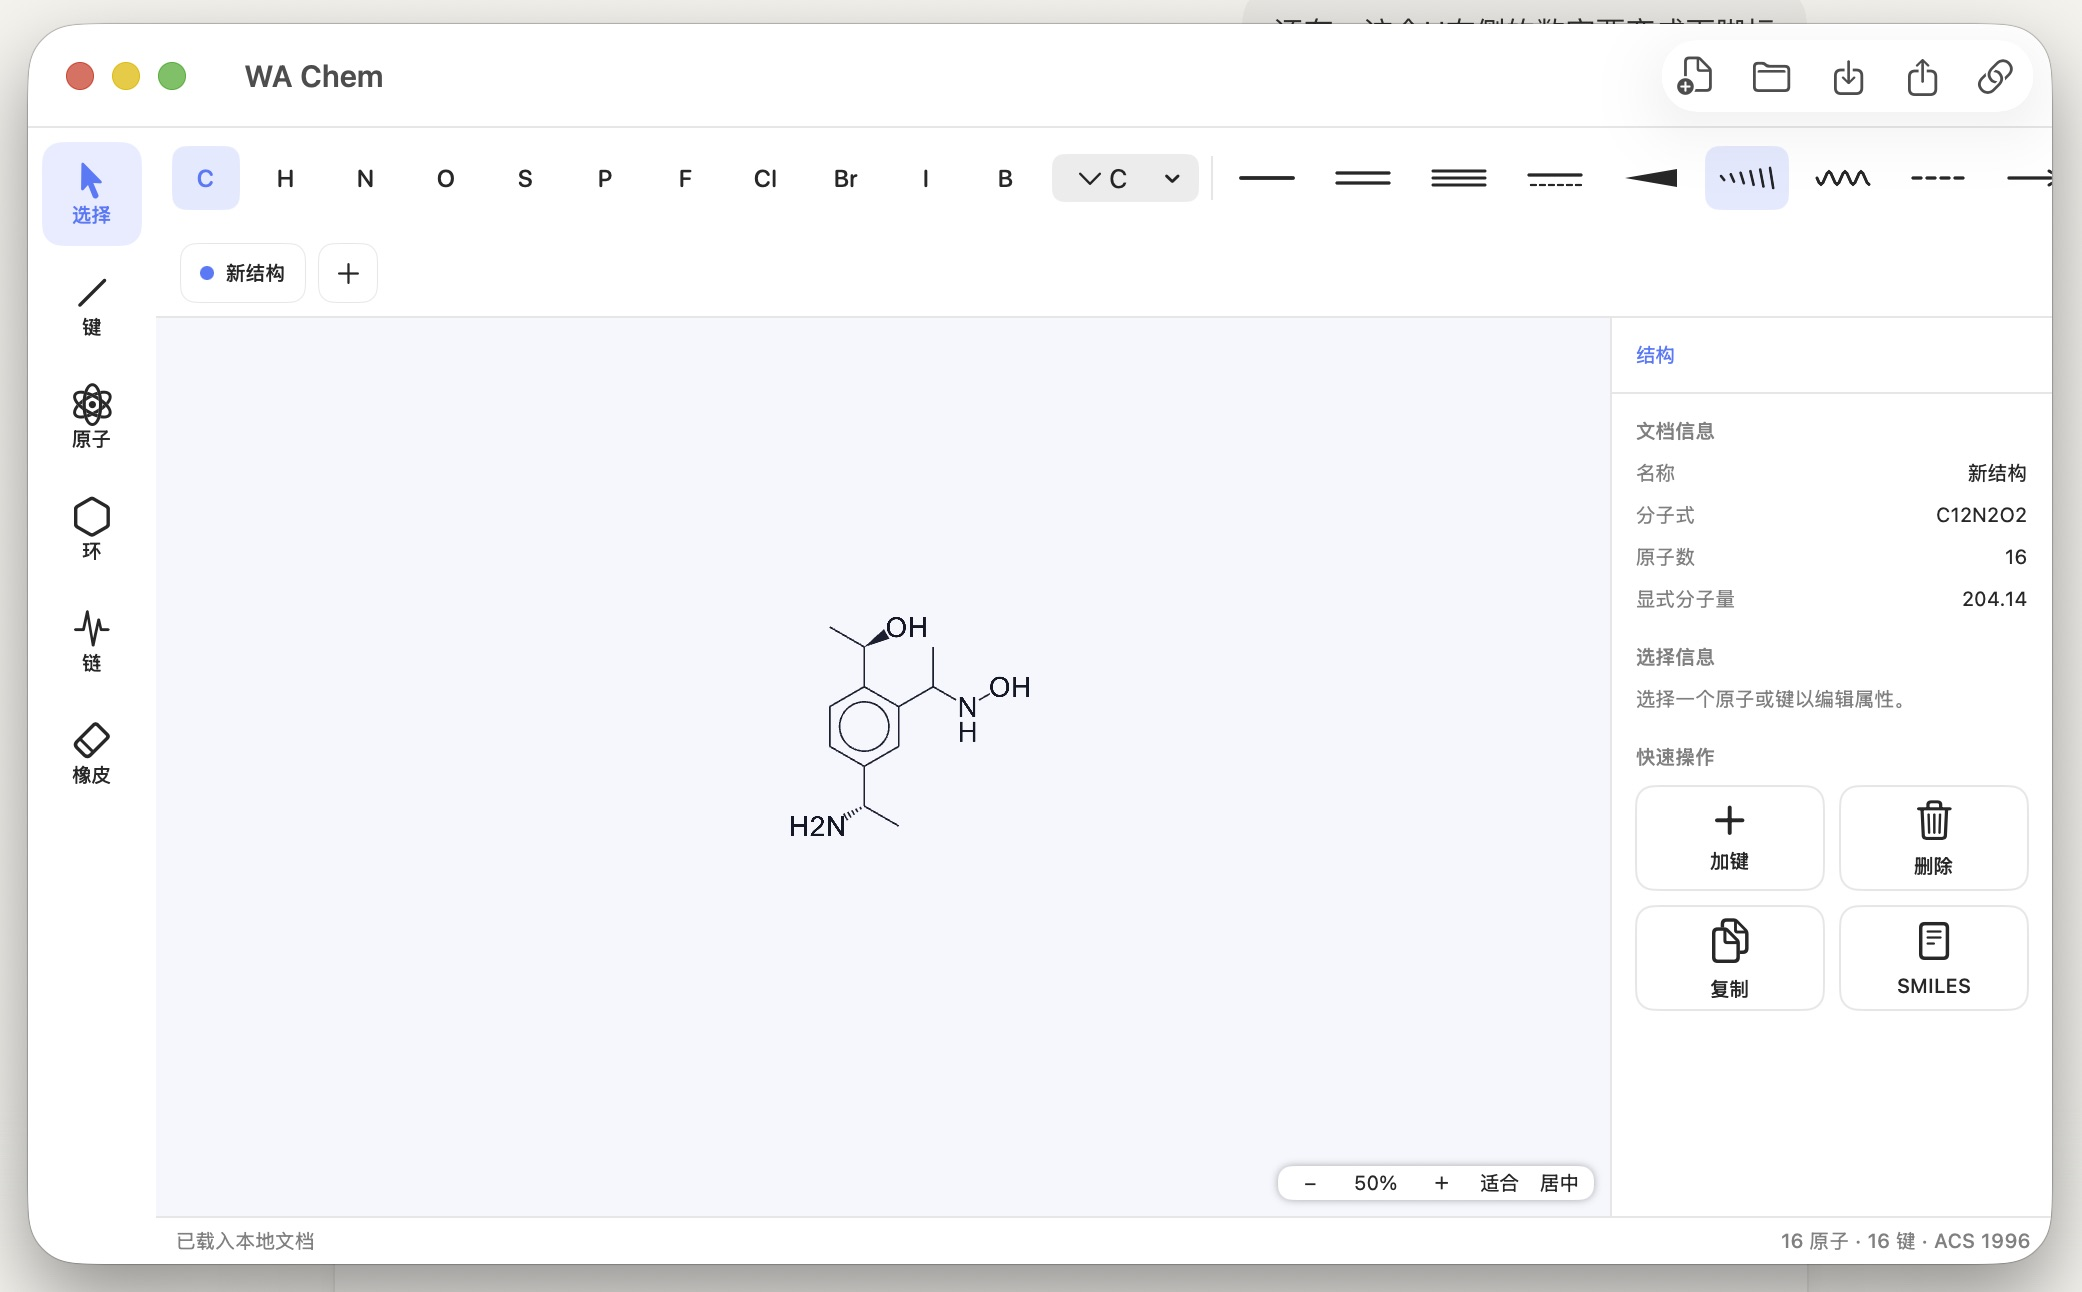
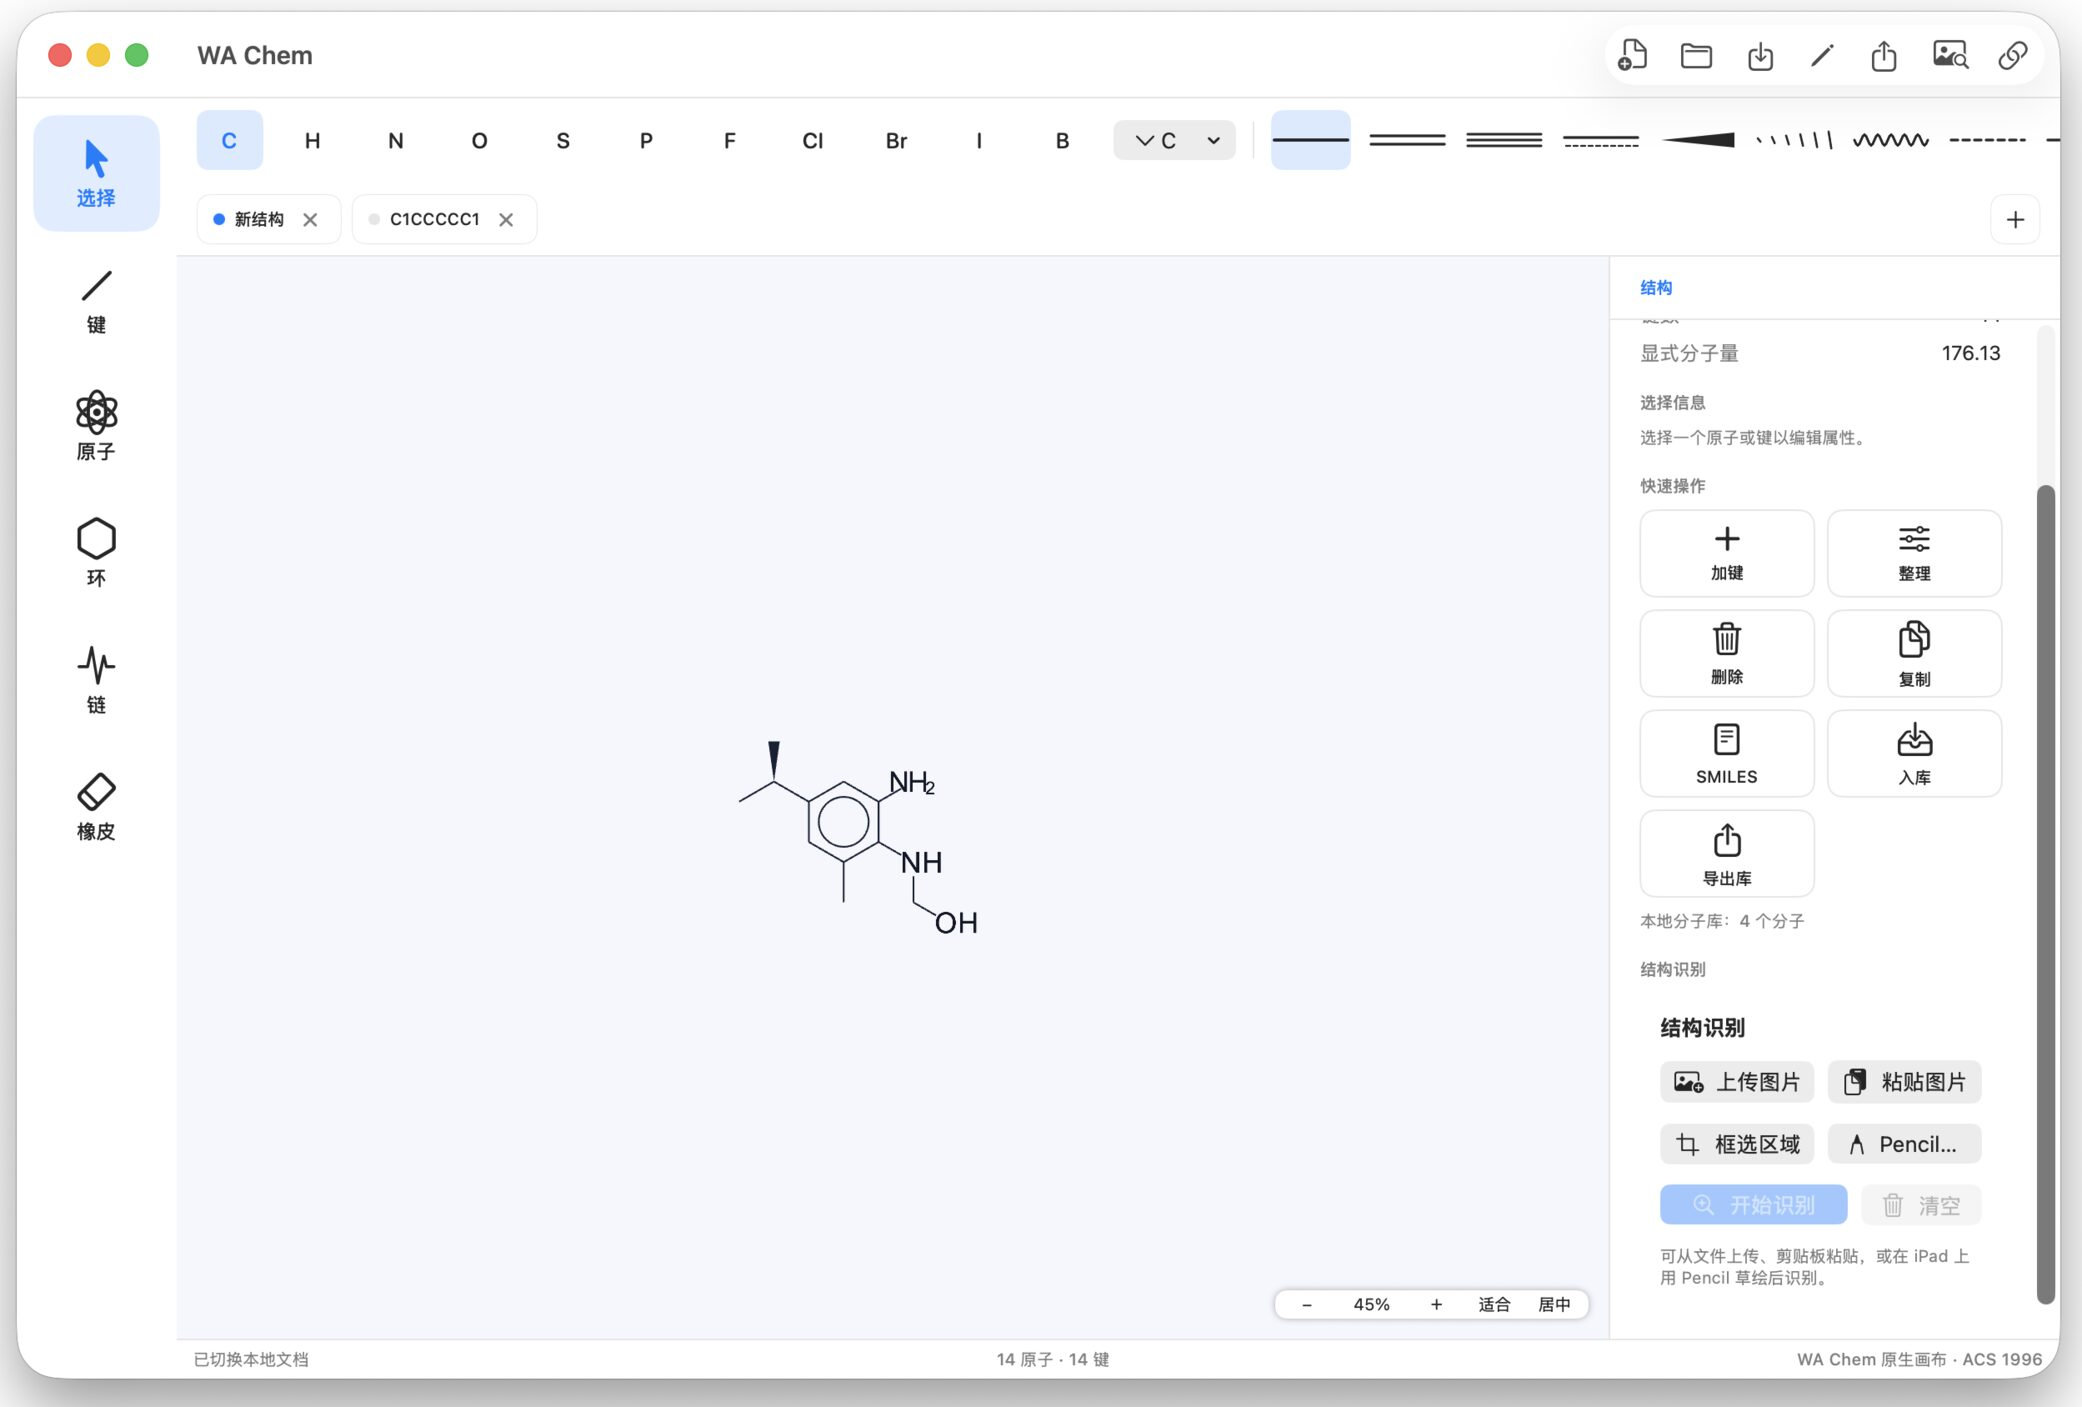
docs: refresh portal editor screenshot

diff --git a/index.html b/index.html
@@ -85,7 +85,7 @@
             src="assets/editor-mac.jpg"
             alt="WA Chem Mac 原生编辑器界面，画布使用 ACS 1996 文档样式"
             width="2082"
-            height="1292"
+            height="1407"
             loading="lazy"
           />
         </figure>
